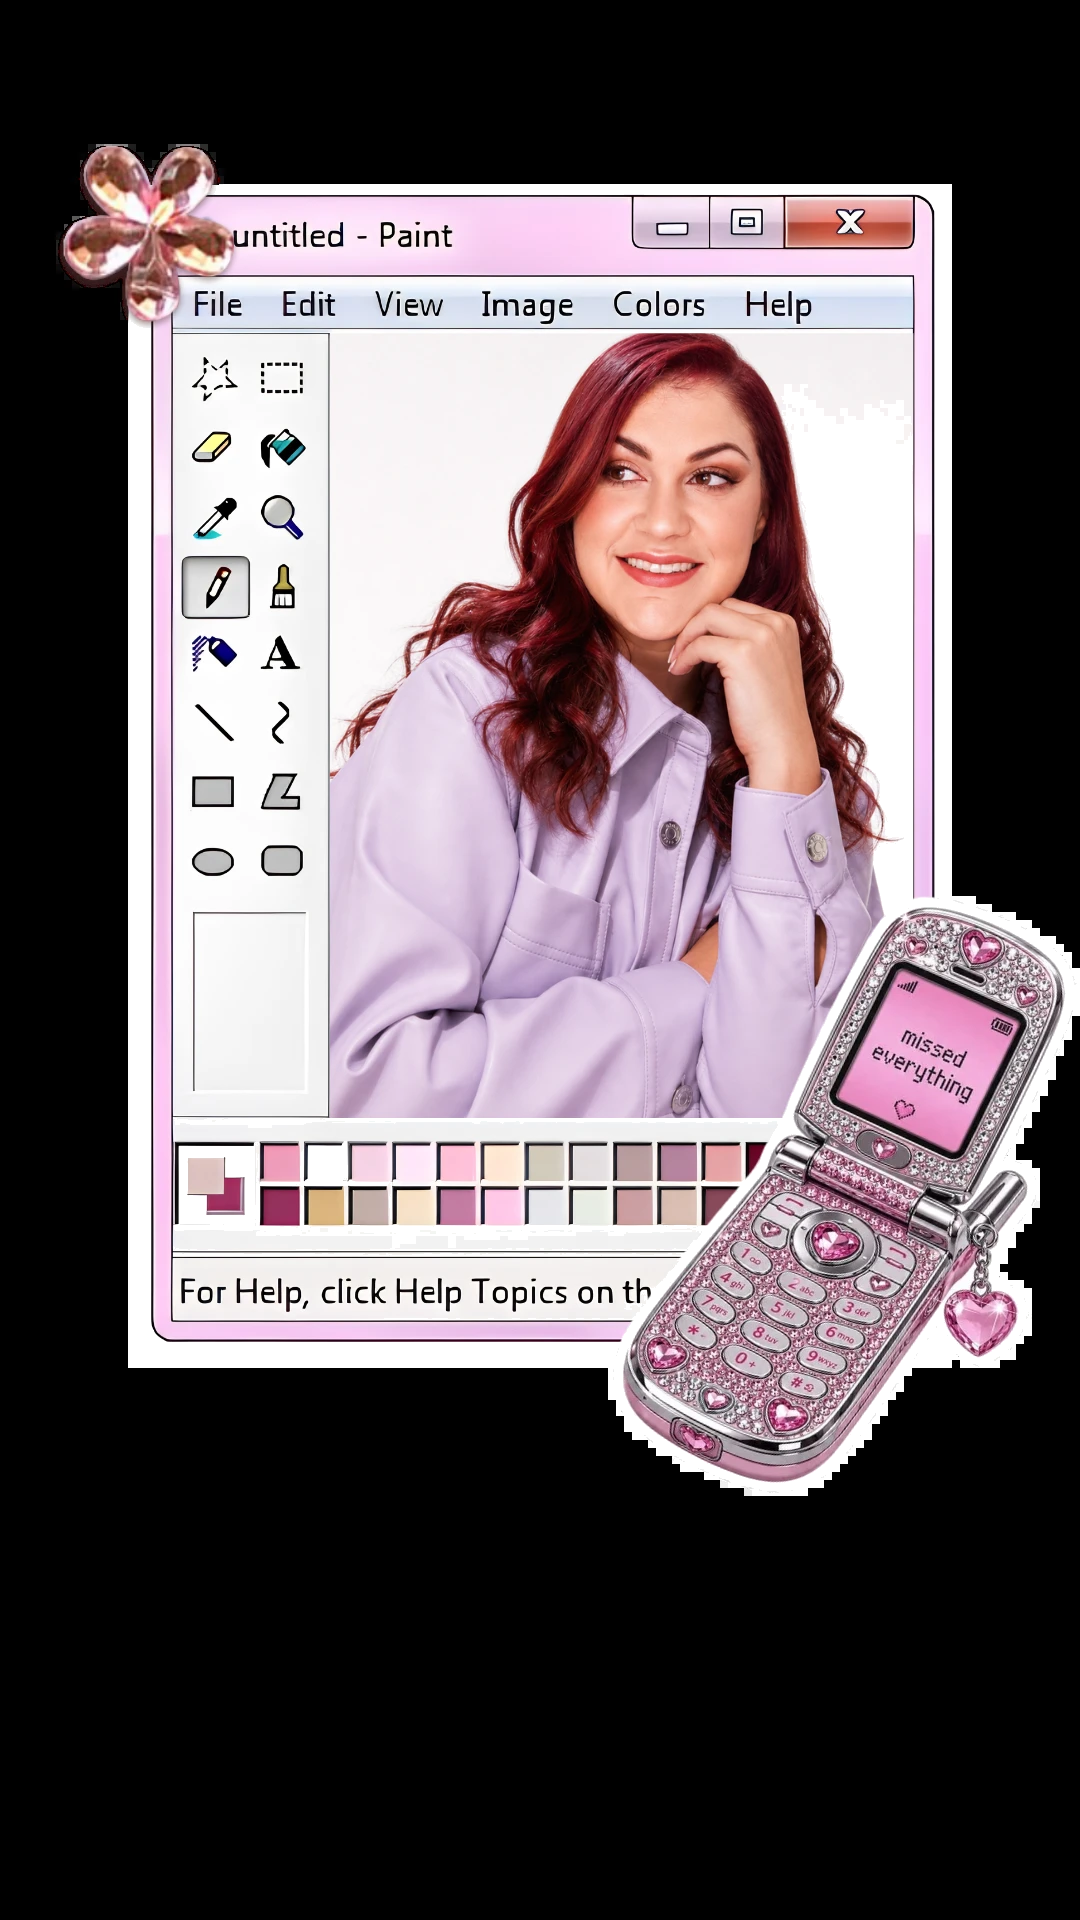
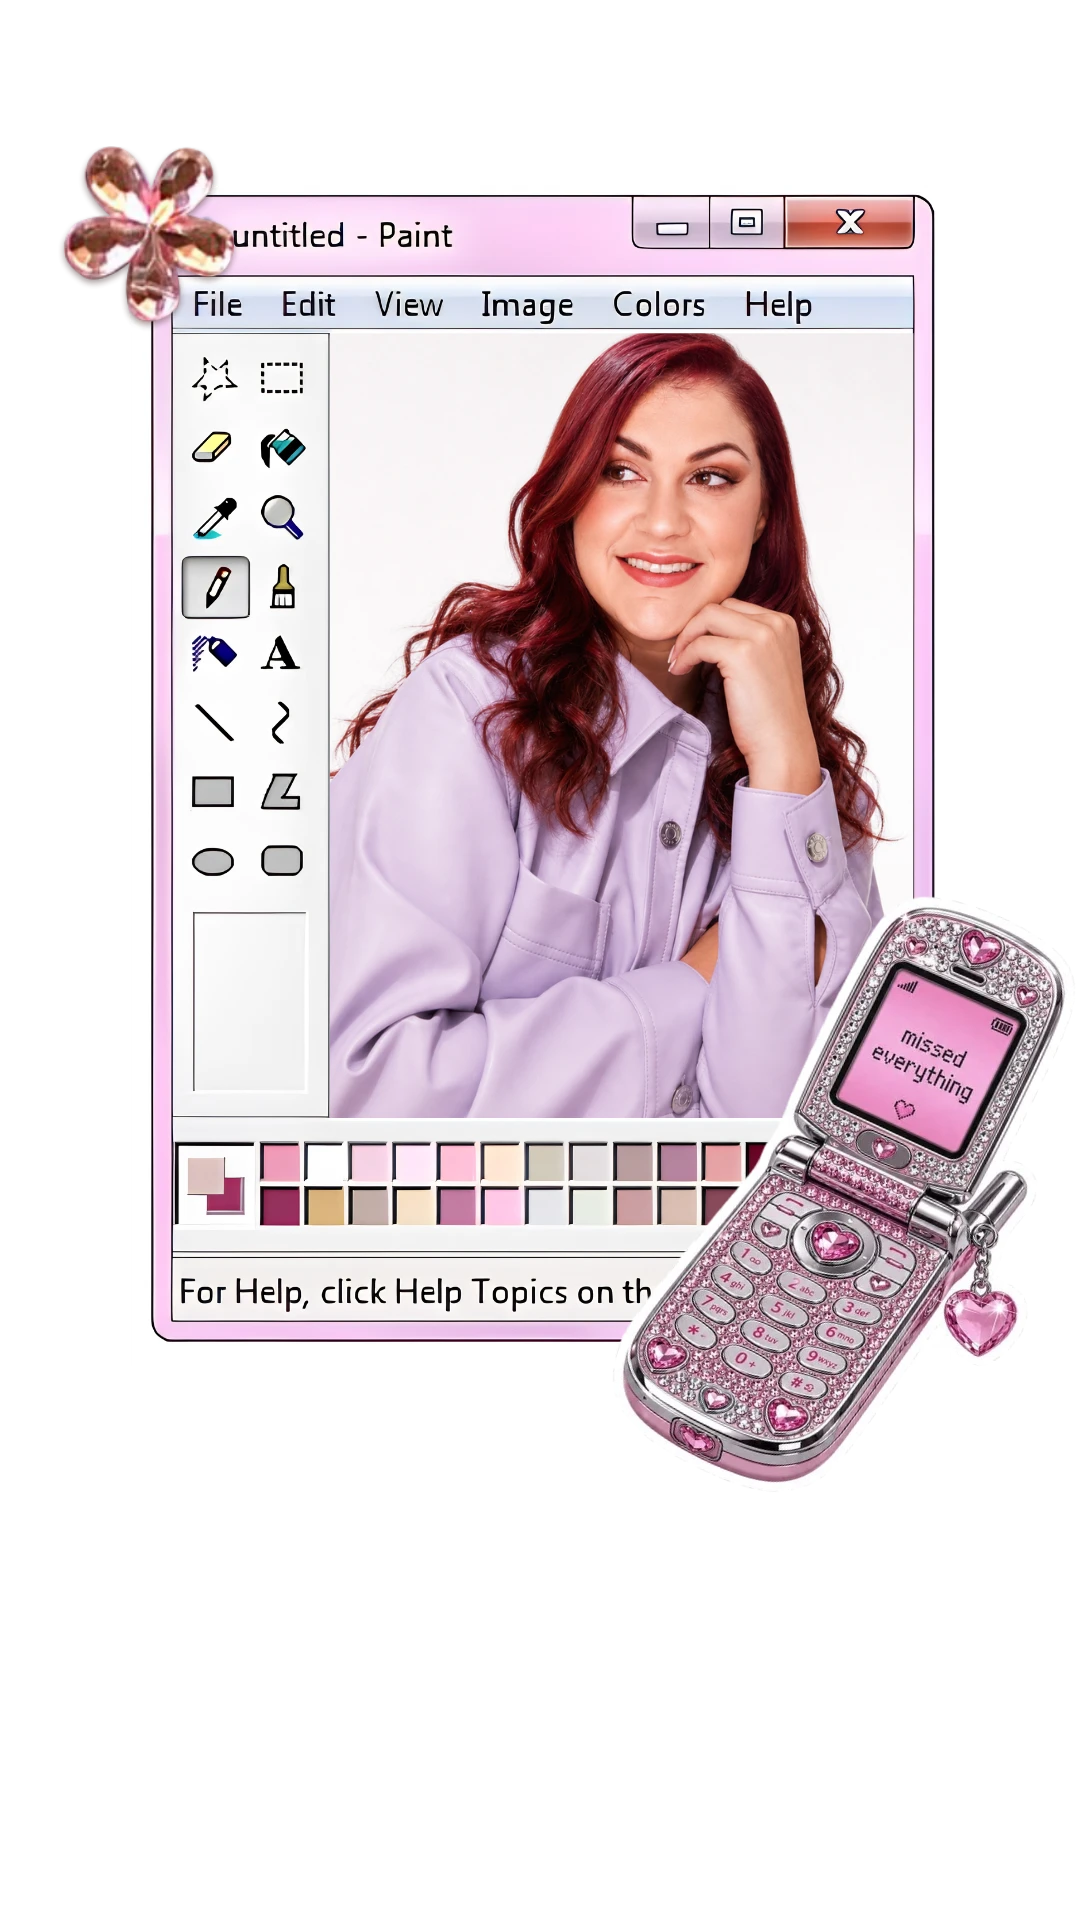
Corrige transparencia real da foto da capa (alta qualidade) e remove a sombra

diff --git a/index.html b/index.html
@@ -93,7 +93,7 @@ h1,h2,h3{font-family:var(--head);line-height:1.1;letter-spacing:-.02em;color:var
 .ph.alt{background:linear-gradient(155deg,var(--amarelo) 0%,#f0b9b0 55%,var(--rosa) 100%)}
 .ph img{position:absolute;inset:0;width:100%;height:100%;object-fit:cover}
 .ph .cap{position:relative;margin:0 0 16px;padding:6px 14px;border-radius:999px;background:rgba(251,246,238,.92);font-size:.78rem;font-weight:500;color:var(--tinta)}
-.hero-photo{display:block;max-width:380px;width:100%;height:auto;margin-left:auto;transform:rotate(2.5deg);filter:drop-shadow(0 22px 30px rgba(142,27,58,.35))}
+.hero-photo{display:block;max-width:380px;width:100%;height:auto;margin-left:auto;transform:rotate(2.5deg)}
 
 /* Faixa de marcas */
 .brands{background:var(--vinho);overflow:hidden;position:relative;z-index:1}
